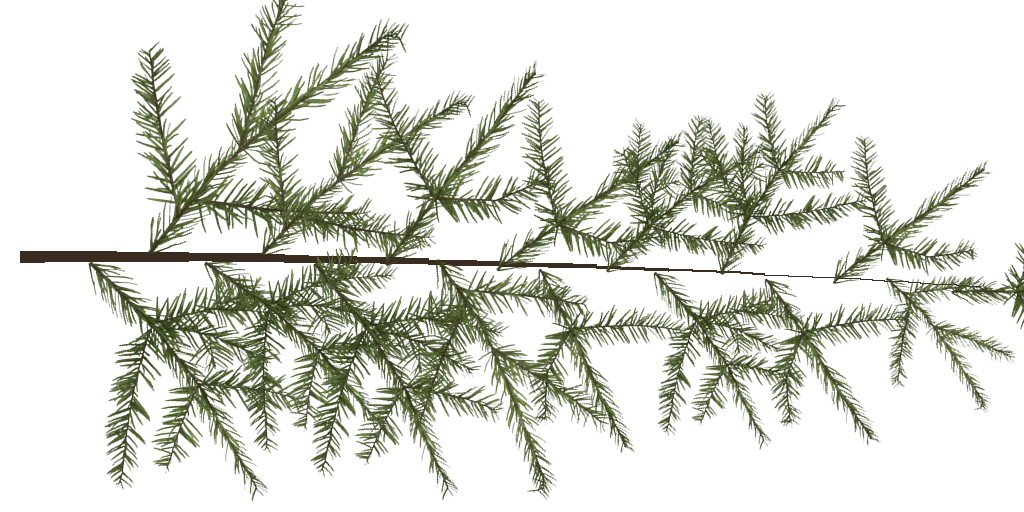
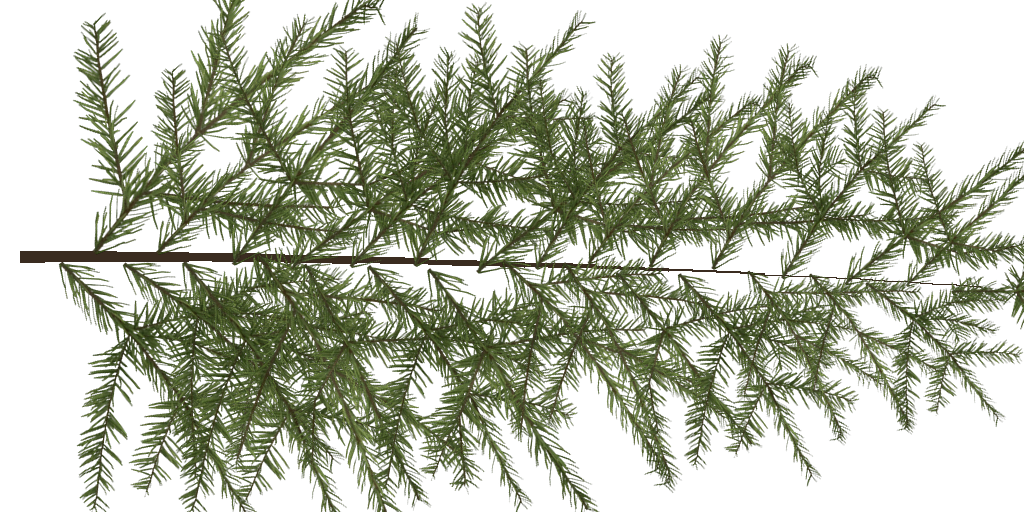
Fuller firs, Poly Haven props at camps and docks, Android export preset
Denser fir branch cards that stay solid at a distance; barrels, crates and a
stone fire pit from Poly Haven scans; an arm64 Android export preset.

Claude-Session: https://claude.ai/code/session_01K33y3oFCGMCZcYPXpgBrA4

diff --git a/game/scripts/Foliage.cs b/game/scripts/Foliage.cs
@@ -81,7 +81,7 @@ public static class Foliage
         {
             var f = 0.14f + 0.82f * i / whorls + (float)(rng.NextDouble() - 0.5) * 0.02f;
             var length = 0.7f + MathF.Pow(1 - f, 1.1f) * height * 0.3f;
-            var count = 5 + rng.Next(3);
+            var count = 7 + rng.Next(3);
             var phase = (float)rng.NextDouble() * Mathf.Tau;
             for (var j = 0; j < count; j++)
             {
@@ -90,7 +90,7 @@ public static class Foliage
                 var dir = new Vector3(Mathf.Cos(a), 0, Mathf.Sin(a));
                 var basePoint = new Vector3(0, f * height, 0) + dir * 0.1f;
                 var tip = basePoint + dir * length * Mathf.Cos(droop) + Vector3.Down * length * Mathf.Sin(droop);
-                b.Branch(basePoint, tip, length * 0.5f, dir);
+                b.Branch(basePoint, tip, length * 0.6f, dir);
             }
         }
         // The leader at the top: two crossed upright cards.
@@ -196,7 +196,7 @@ public static class Foliage
             var (n0, n1) = ((outward * 0.5f + Vector3.Up * 0.85f).Normalized(), (outward + Vector3.Up * 0.45f).Normalized());
             foreach (var sign in new[] { -1f, 1f })
             {
-                var wing = (side * sign * 0.94f + Vector3.Up * 0.34f) * width / 2;
+                var wing = (side * sign * 0.8f + Vector3.Up * 0.6f) * width / 2;
                 var v = sign < 0 ? 0f : 1f;
                 Vertex(_cards, from, n0, new Vector2(0, 0.5f), 0.45f);
                 Vertex(_cards, to, n1, new Vector2(1, 0.5f), 1);

diff --git a/tools/polyhaven/fetch.py b/tools/polyhaven/fetch.py
@@ -220,11 +220,11 @@ def fir_branch(cache):
     for i in range(40):
         t0, t1 = i / 40, (i + 1) / 40
         draw.line([stem(t0), stem(t1)], fill=(58, 44, 32, 255), width=max(2, int(12 * (1 - t0))))
-    steps = 15
+    steps = 28
     for i in range(steps):
-        t = 0.08 + 0.88 * i / steps
+        t = 0.05 + 0.9 * i / steps
         side = 1 if i % 2 == 0 else -1
-        length = 330 * (1 - t * 0.55) * (0.85 + rng.random() * 0.3)
+        length = 360 * (1 - t * 0.5) * (0.85 + rng.random() * 0.3)
         angle = side * (40 + rng.random() * 20)  # leaning toward the tip
         paste_rotated(card, rng.choice(sprigs[:3]), stem(t), -angle, length)
     paste_rotated(card, sprigs[0], stem(0.97), 4, 200)

diff --git a/game/scripts/Graphics.cs b/game/scripts/Graphics.cs
@@ -106,7 +106,10 @@ public static class Graphics
             vec4 tex = textured ? texture(albedo_tex, UV * uv_scale) : vec4(1.0);
             vec3 base = tex.rgb * to_linear(COLOR.rgb);
         #ifdef CUTOUT
-            ALPHA = tex.a;
+            // Thin needles fade away in the smaller mipmaps; strengthen them with distance so trees stay full.
+            vec2 texels = UV * vec2(textureSize(albedo_tex, 0));
+            float lod = max(0.0, 0.5 * log2(max(dot(dFdx(texels), dFdx(texels)), dot(dFdy(texels), dFdy(texels)))));
+            ALPHA = tex.a * (1.0 + lod * 0.45);
             ALPHA_SCISSOR_THRESHOLD = 0.45;
         #endif
         #ifdef NORMALS
